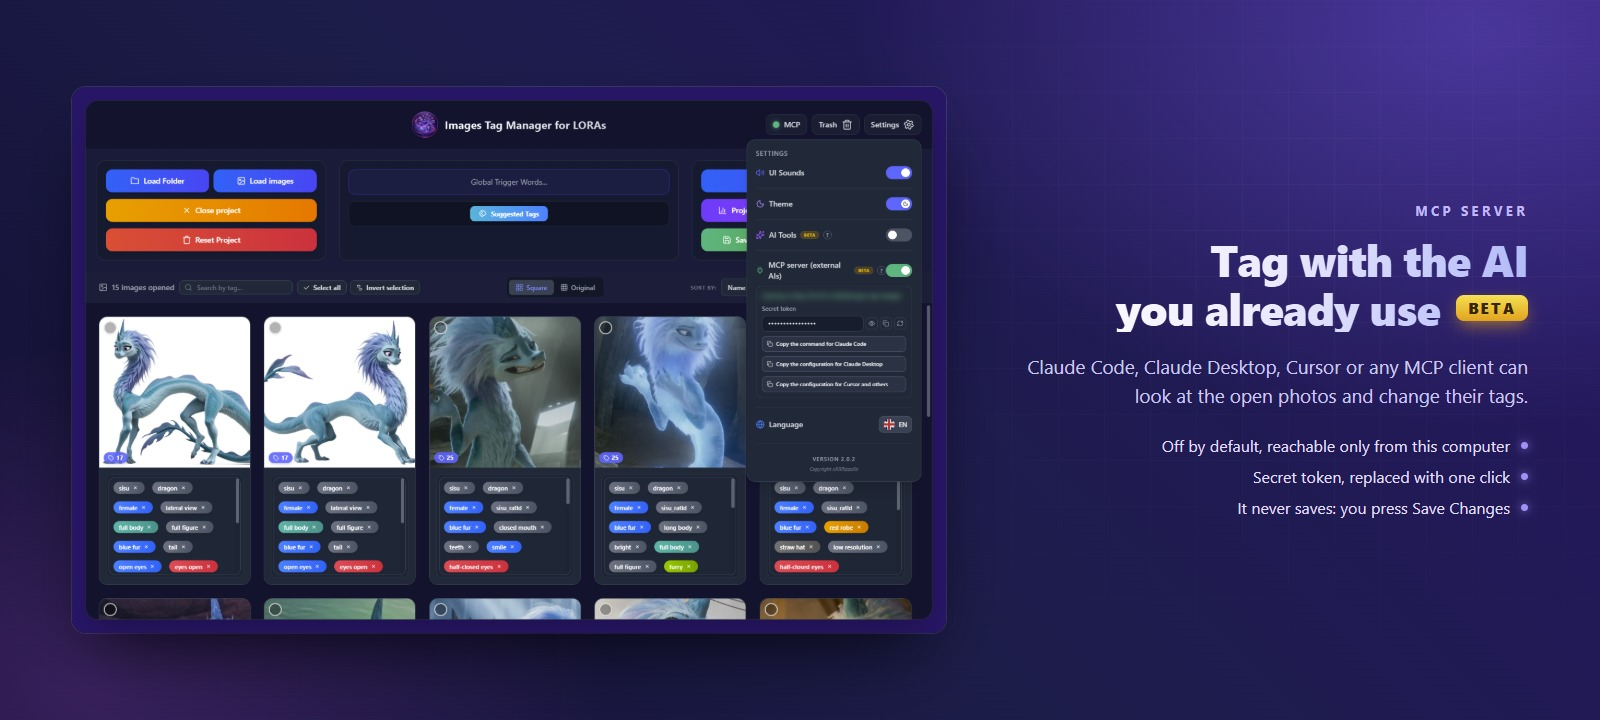
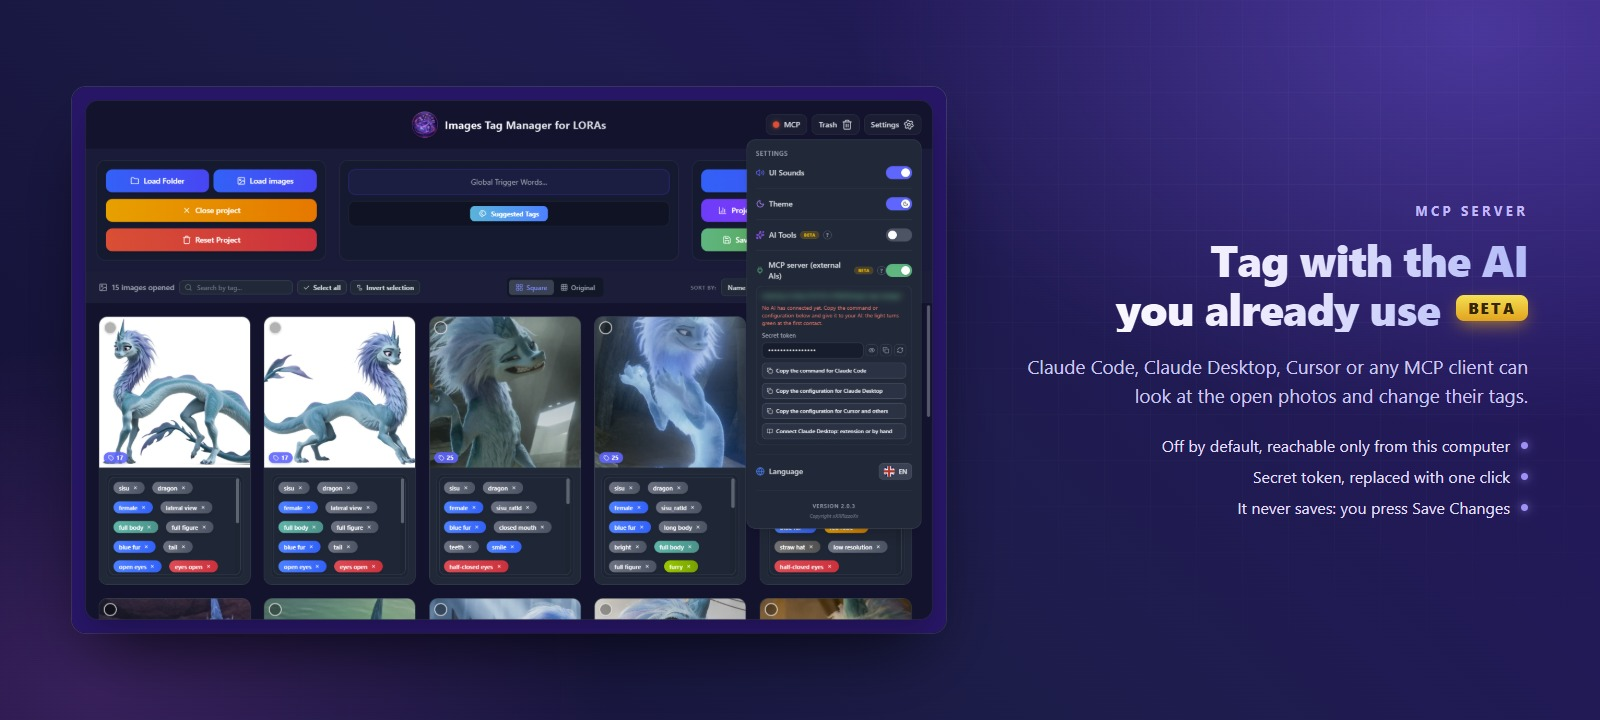
docs: README card for Connect Claude Desktop, MCP card retaken on 2.0.3
- New feature card 20 (Connect Claude Desktop: extension or by hand) right after the MCP light card, with its screenshot step in make-readme-shots
- MCP card 17 retaken on 2.0.3: version, red light until an AI connects, the Connect Claude Desktop button
- Cards 13, 14, 15 and 18 regenerated with the sides swapped, to keep the left/right alternation

Changed region(s): [[0.4688, 0.4278, 0.5625, 0.6111], [0.4688, 0.6417, 0.5938, 0.7639]]

diff --git a/README.md b/README.md
@@ -56,6 +56,8 @@ It runs entirely on your machine and sends **no telemetry**. AI tagging is **opt
 
 <img src="docs/img/features/19-mcp-light.jpg" alt="MCP light: next to Trash, red until an AI connects, green once one has, yellow while an external AI works, a red triangle if the server did not start; a click shows the connection details, and a chime tells you when the AI has finished changing tags" width="100%" />
 
+<img src="docs/img/features/20-claude-desktop.jpg" alt="Connect Claude Desktop: save the images-tag-manager.mcpb extension, drag it onto Claude's Settings, Extensions page, paste the secret token and switch the extension on, with no Node.js needed; or by hand, with a button that copies only this server's entry for Claude's configuration file" width="100%" />
+
 <img src="docs/img/features/18-help.jpg" alt="Help where you need it: a question-mark button next to every Settings section opens its explanation" width="100%" />
 
 <img src="docs/img/features/13-trash.jpg" alt="Trash: removed photos are recoverable and files go to the Windows Recycle Bin" width="100%" />
